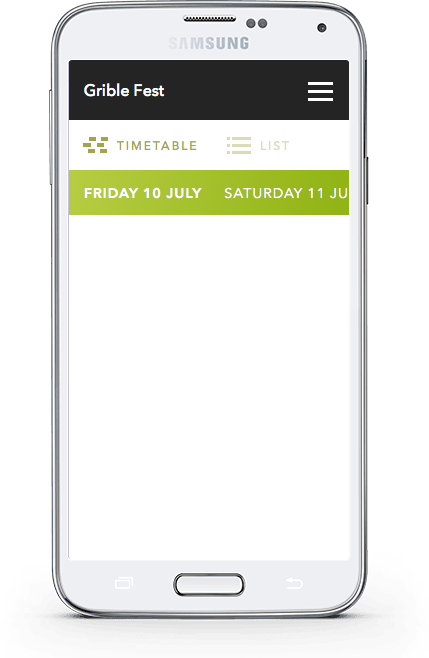
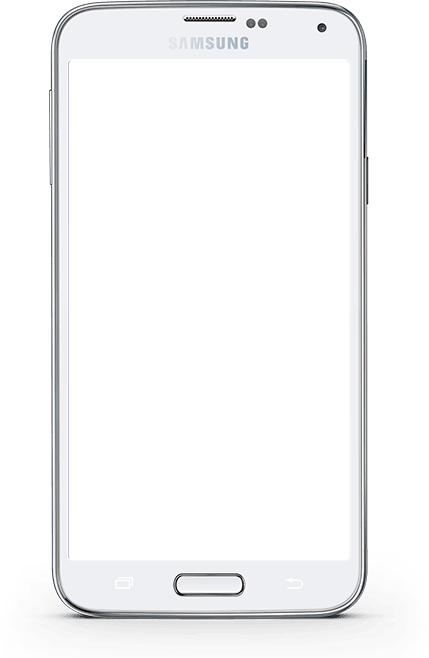
demo phone full viewport is now scrollable + hide github ribbon on xs

Changed region(s): [[0.1515, 0.0912, 0.8182, 0.3343]]

diff --git a/app/index.html b/app/index.html
@@ -39,8 +39,11 @@
         </div>
         <div class="demo-column">
           <div class="demo-wrapper">
-            <img src="images/phone.png" alt="Timetable.js Demo">
-            <div class="timetable"></div>
+            <img src="images/phone.png" alt="Timetable.js">
+            <div class="viewport">
+              <img src="images/phone_content.png" alt>
+              <div class="timetable"></div>
+            </div>
           </div>
         </div>
       </div>
@@ -80,7 +83,7 @@
 
           <h2>Getting Started</h2>
           <p>
-            Install with bower, or alternatively download the ZIP:
+            Install with bower, or alternatively <a href="https://github.com/Grible/timetable.js/archive/master.zip">download</a> the zip:
             <pre><span style='color:#797997; '>$</span> bower install timetable</pre>
           </p>
           <p>

diff --git a/app/styles/main.sass b/app/styles/main.sass
@@ -159,6 +159,8 @@ hr
   z-index: 10
   top: 0
   right: 0
+  +gridle_state(xs)
+    display: none
 
 
 /* ==========================================================
@@ -205,18 +207,20 @@ body > header
     display: inline-block
     max-width: 100%
 
-.timetable
-  position: absolute
-  width: 65%
-  height: 51.5%
-  left: 16.3%
-  bottom: 16.3%
-  overflow-y: scroll
-  text-align: left
+    .viewport
+      position: absolute
+      width: 65%
+      height: 74.7%
+      left: 16.3%
+      bottom: 16.3%
+      overflow-y: scroll
 
+.timetable
+  text-align: left
   color: white
   text-transform: uppercase
   font-size: 0.72em
+  margin-top: -1em
 
   .row-heading
     @extend h3

diff --git a/app/styles/_grid.scss b/app/styles/_grid.scss
@@ -12,7 +12,7 @@
 @include gridle_register_default_mobile_first_states();
 
 // Generate classes :
-// @include gridle_generate_classes();
+// @include gridle_generate_classes(null, (hide));
 
 // Max size :
 .content-wrap, .hero-wrap {
